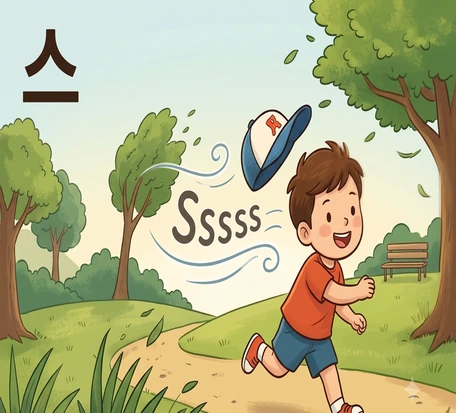
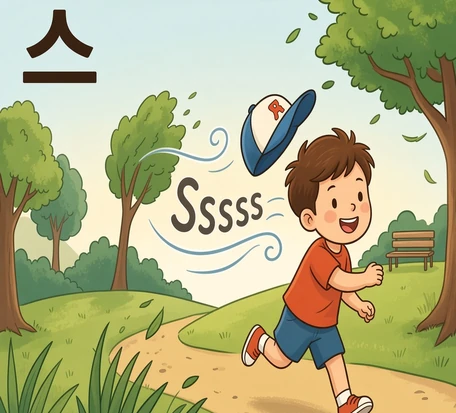
img교체

diff --git a/src/components/ui/stats-entry-button.tsx b/src/components/ui/stats-entry-button.tsx
@@ -1,5 +1,6 @@
 import { Pressable, StyleSheet } from "react-native";
 
+import { ThemedText } from "@/components/themed-text";
 import { Icon } from "@/components/ui/icon";
 import { Radius } from "@/constants/theme";
 import { useTheme } from "@/hooks/use-theme";
@@ -8,12 +9,15 @@ type StatsEntryButtonProps = {
   onPress: () => void;
   /** 통계 버튼이 한 화면에 여럿일 때 종목을 구분하는 라벨(기본 "연습 통계 보기"). */
   accessibilityLabel?: string;
+  /** 아이콘 아래 짧은 글자. 없으면 아이콘만(다른 탭과 같은 크기). */
+  label?: string;
 };
 
 /** 헤더 우측 — 측정 통계 화면 진입. 탭마다 같은 그림. */
 export function StatsEntryButton({
   onPress,
   accessibilityLabel = "연습 통계 보기",
+  label,
 }: Readonly<StatsEntryButtonProps>) {
   const theme = useTheme();
   return (
@@ -24,6 +28,7 @@ export function StatsEntryButton({
       hitSlop={8}
       style={({ pressed }) => [
         styles.button,
+        label ? styles.buttonLabeled : null,
         {
           backgroundColor: theme.accentTint,
           borderColor: theme.accentBorder,
@@ -31,7 +36,16 @@ export function StatsEntryButton({
         pressed && styles.pressed,
       ]}
     >
-      <Icon name="chart" size={28} color={theme.accent} />
+      <Icon name="chart" size={label ? 22 : 28} color={theme.accent} />
+      {label ? (
+        <ThemedText
+          type="smallBold"
+          style={[styles.label, { color: theme.accent }]}
+          numberOfLines={1}
+        >
+          {label}
+        </ThemedText>
+      ) : null}
     </Pressable>
   );
 }
@@ -44,6 +58,14 @@ const styles = StyleSheet.create({
     borderWidth: 2,
     alignItems: "center",
     justifyContent: "center",
+  },
+  buttonLabeled: {
+    height: 56,
+    gap: 0,
+  },
+  label: {
+    fontSize: 14,
+    lineHeight: 18,
   },
   pressed: {
     opacity: 0.7,

diff --git a/src/components/ui/listening-check-entry-button.tsx b/src/components/ui/listening-check-entry-button.tsx
@@ -1,16 +1,20 @@
 import { Pressable, StyleSheet } from "react-native";
 
+import { ThemedText } from "@/components/themed-text";
 import { Icon } from "@/components/ui/icon";
 import { Radius } from "@/constants/theme";
 import { useTheme } from "@/hooks/use-theme";
 
 type ListeningCheckEntryButtonProps = {
   onPress: () => void;
+  /** 아이콘 아래 짧은 글자. 없으면 아이콘만(다른 탭과 같은 크기). */
+  label?: string;
 };
 
 /** 헤더 우측 — 소리 점검(재생 확인). 통계 버튼과 같은 크기. */
 export function ListeningCheckEntryButton({
   onPress,
+  label,
 }: Readonly<ListeningCheckEntryButtonProps>) {
   const theme = useTheme();
   return (
@@ -21,6 +25,7 @@ export function ListeningCheckEntryButton({
       hitSlop={8}
       style={({ pressed }) => [
         styles.button,
+        label ? styles.buttonLabeled : null,
         {
           backgroundColor: theme.accentTint,
           borderColor: theme.accentBorder,
@@ -28,7 +33,16 @@ export function ListeningCheckEntryButton({
         pressed && styles.pressed,
       ]}
     >
-      <Icon name="headphones" size={28} color={theme.accent} />
+      <Icon name="headphones" size={label ? 22 : 28} color={theme.accent} />
+      {label ? (
+        <ThemedText
+          type="smallBold"
+          style={[styles.label, { color: theme.accent }]}
+          numberOfLines={1}
+        >
+          {label}
+        </ThemedText>
+      ) : null}
     </Pressable>
   );
 }
@@ -41,6 +55,14 @@ const styles = StyleSheet.create({
     borderWidth: 2,
     alignItems: "center",
     justifyContent: "center",
+  },
+  buttonLabeled: {
+    height: 56,
+    gap: 0,
+  },
+  label: {
+    fontSize: 14,
+    lineHeight: 18,
   },
   pressed: {
     opacity: 0.7,

diff --git a/src/training/pta/PtaSessionScreen.tsx b/src/training/pta/PtaSessionScreen.tsx
@@ -188,12 +188,17 @@ export function PtaSessionScreen() {
               caption="웰니스·훈련 · 병원 검사·진단을 대신하지 않아요"
               action={
                 <View style={styles.headerActions}>
-                  <ListeningCheckEntryButton onPress={openCheck} />
+                  <ListeningCheckEntryButton
+                    label="점검"
+                    onPress={openCheck}
+                  />
                   <StatsEntryButton
+                    label="비교"
                     accessibilityLabel="높낮이 비교 연습 통계 보기"
                     onPress={openStatsPitch}
                   />
                   <StatsEntryButton
+                    label="찾기"
                     accessibilityLabel="다른 음 찾기 연습 통계 보기"
                     onPress={openStatsFreq}
                   />

diff --git a/docs/impl-log_2.md b/docs/impl-log_2.md
@@ -56,6 +56,51 @@
 
 ## 로그
 
+### 2026-09-07 — PTA 헤더 헤드폰에도 점검 글자
+
+| 항목 | 내용 |
+|------|------|
+| 트랙 | ② 주파수 |
+| 근거·결정 | 사용자: PTA 선택 헤더에서 통계 2칸과 높이를 맞출 것. 전 탭은 그대로. |
+| 변경 요약 | `ListeningCheckEntryButton`에 선택 `label`. PTA만 `점검`. |
+| 주요 경로 | `src/components/ui/listening-check-entry-button.tsx` |
+| 주요 경로 | `src/training/pta/PtaSessionScreen.tsx` |
+| 결과 | 라벨 있으면 높이 56·아이콘 22. 다른 탭은 60×40. |
+| 확인 | 린트. 실기기는 안 봄. |
+| 단정 금지 | `미검증`: 좁은 폭에서 제목·버튼 3개 겹침. |
+| 성능·주의 | 없음. |
+| 다음 | 없음 |
+
+### 2026-09-07 — PTA 헤더 통계 버튼에 비교·찾기 글자
+
+| 항목 | 내용 |
+|------|------|
+| 트랙 | ② 주파수 |
+| 근거·결정 | 사용자: 소리 높낮이 헤더 통계 아이콘 2개가 같아 헷갈림. 아이콘 아래 글자. |
+| 변경 요약 | `StatsEntryButton`에 선택 `label`. PTA 선택 화면만 `비교`·`찾기`. |
+| 주요 경로 | `src/components/ui/stats-entry-button.tsx` |
+| 주요 경로 | `src/training/pta/PtaSessionScreen.tsx` |
+| 결과 | 라벨 있으면 높이 56·아이콘 22. 없으면 기존 60×40. |
+| 확인 | 린트. 실기기 헤더 줄바꿈은 안 봄. |
+| 단정 금지 | `미검증`: 좁은 폭에서 제목과 버튼 3개가 겹치는지. |
+| 성능·주의 | 없음. 헤더만 16px 더 높음(선택 화면). |
+| 다음 | 없음 |
+
+### 2026-09-07 — 소리 구분 006(스) 가로 늘림 재출력
+
+| 항목 | 내용 |
+|------|------|
+| 트랙 | 공통·인프라 |
+| 근거·결정 | 사용자: `006.webp`가 `005.webp`보다 가로로 늘어져 보임. 같은 장면으로 다시 뽑을 것. |
+| 근거·결정 | 원본 `06_스.png`는 없음. 006 장면 + 005 비율을 레퍼런스로 1:1 생성 후 cover. |
+| 변경 요약 | `006.webp`만 456×413 webp로 교체. 가로 stretch 없음(1:1→높이 crop). |
+| 주요 경로 | `assets/ling6/006.webp` |
+| 결과 | 456×413. 소년·모자·스·Sssss 장면 유지. 001~005·wav·코드 그대로. |
+| 확인 | PIL 크기 확인. 실기기 칸은 안 봄. |
+| 단정 금지 | `미검증`: 3열 칸에서 글자·얼굴 잘림. 생성본이 예전 단장과 픽셀 동일하진 않음. |
+| 성능·주의 | 없음. 정적 1장 교체. |
+| 다음 | 없음 |
+
 ### 2026-09-07 — 악기 표: 그림 유지, 합성 필드 제거(리베이스 충돌)
 
 | 항목 | 내용 |

diff --git a/docs/handoff4.md b/docs/handoff4.md
@@ -4,6 +4,66 @@
 > 사용자(2026-08-21 02:08): 이후 인계는 여기. `handoff3.md`는 과거.  
 > 사용자(2026-08-19 01:09): 블록에 **`### 합의` / `### 안 한 일` / `### 다음` 넣지 않음.**
 
+## 인계 — 2026-09-07 10:14
+
+새 채팅 AI용. **이번 세션 = PTA 헤더 헤드폰에 `점검` 글자.**
+
+### 한 일
+
+- `ListeningCheckEntryButton`에 선택 `label`. 통계 버튼과 같은 56 높이.
+- `PtaSessionScreen` 선택 화면만. 다른 탭은 아이콘만.
+
+### 핵심 경로
+
+- `src/components/ui/listening-check-entry-button.tsx`
+- `src/training/pta/PtaSessionScreen.tsx`
+
+### 단정 금지
+
+- `미검증`: 좁은 폭에서 제목·버튼 3개 겹침.
+
+---
+
+## 인계 — 2026-09-07 10:09
+
+새 채팅 AI용. **이번 세션 = PTA 헤더 통계 2버튼에 `비교`·`찾기` 글자.**
+
+### 한 일
+
+- `StatsEntryButton`에 선택 `label`. 있으면 아이콘 아래 14px 글자.
+- `PtaSessionScreen` 선택 화면만 사용. 다른 탭은 아이콘만.
+
+### 핵심 경로
+
+- `src/components/ui/stats-entry-button.tsx`
+- `src/training/pta/PtaSessionScreen.tsx`
+
+### 단정 금지
+
+- `미검증`: 좁은 폭에서 제목·버튼 3개 겹침.
+
+---
+
+## 인계 — 2026-09-07 09:16
+
+새 채팅 AI용. **이번 세션 = 소리 구분 `006.webp`(스) 가로 늘림 재출력.**
+
+### 한 일
+
+- 원본 `06_스.png` 없음. 006 장면 + 005 비율로 1:1 생성.
+- 456×413에 cover(높이만 crop). 가로 stretch 안 함.
+- `001`~`005`·wav·`sounds.ts`는 그대로.
+
+### 핵심 경로
+
+- `assets/ling6/006.webp`
+
+### 단정 금지
+
+- `미검증`: 실기기 3열 칸 잘림. 생성본 ≠ 예전 단장 픽셀.
+
+---
+
 ## 인계 — 2026-09-07 07:41
 
 새 채팅 AI용. **이번 세션 = `new-content` 리베이스 충돌 해소. 악기 보기는 WebP.**
